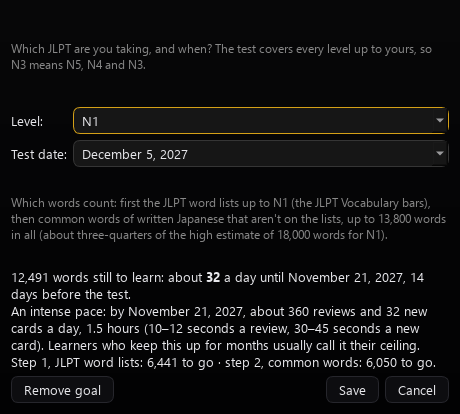
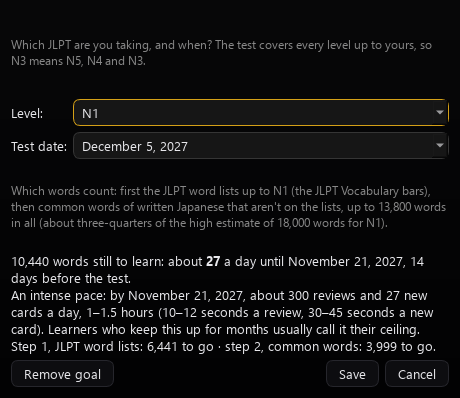
Goal: suspended list words never open step 2
Step 2 is sized against the full bundled lists, not the lists minus
suspensions: 4 suspended N2 words had opened 'Step 2: 4 / 4' on an N2
goal. Suspended list words now only shrink the total, as for N5-N3.
qt_goal.py checks the 4-suspended case. History log: seventh session.

diff --git a/tools/dev/qt_goal.py b/tools/dev/qt_goal.py
@@ -70,6 +70,12 @@ def results(n5, n4, n3, kanji=None, grammar=None):
         r["grammar"] = {"levels": levels, "known": set(levels["N5"][:grammar[0]] + levels["N4"][:grammar[1]])}
     return r
 
+# step 2 is sized against the full bundled lists (goal._full_list_size);
+# these fake lists are smaller, so size it from them until the real-lists checks
+FAKE_SIZES = {"N5": 700, "N4": 650, "N3": 1600, "N2": 1800, "N1": 3000}
+_real_full_size = goal._full_list_size
+goal._full_list_size = lambda level: sum(FAKE_SIZES[l] for l in goal.levels_upto(level))
+
 check("no goal", goal.status(results(600, 400, 300)), None)
 goal.save("N3", datetime.date(2026, 12, 6))
 check("saved", (goal.get()["level"], goal.get()["set"]), ("N3", datetime.date(2026, 10, 20)))
@@ -187,6 +193,7 @@ check("N3 words = lists", goal.status(results(600, 400, 300), "D")["kinds"]["voc
 # Real word lists in the real results' shape (owner's crash 2026-10-20:
 # missing words are (word, reading) pairs, known ones (word, reading, nid))
 from jlpt_progress import jlpt_data
+goal._full_list_size = _real_full_size
 real = jlpt_data.build_lists({})
 RR = {l: {"known_words": [(d, r, 1) for d, r in real[l][:100]], "missing_words": [(d, r) for d, r in real[l][100:]]}
       for l in jlpt_data.LEVELS}
@@ -201,6 +208,12 @@ for lvl in ("N2", "N1"):
         # 2026-10-29): no step 2, so no steps; the total is the lists
         check("real lists N2: no steps", st.get("steps"), None)
         check("real lists N2: words = lists", st["kinds"]["vocab"]["total"], n_lists)
+        # suspended list words shrink the total but never open step 2 (owner's "Step 2: 4 / 4")
+        RS = {l: dict(RR[l]) for l in jlpt_data.LEVELS}; RS["frequency"] = RR["frequency"]
+        RS["N2"]["missing_words"] = RR["N2"]["missing_words"][4:]
+        st4 = goal.status(RS, "D", record=False)
+        check("real lists N2, 4 suspended: still no steps", st4.get("steps"), None)
+        check("real lists N2, 4 suspended: total = lists - 4", st4["kinds"]["vocab"]["total"], n_lists - 4)
         continue
     check(f"real lists {lvl}: step 1 total", st["steps"]["lists"], (100 * len(goal.levels_upto(lvl)), n_lists))
     print("    step 2 needed:", st["steps"]["common"][1])

diff --git a/goal.py b/goal.py
@@ -148,6 +148,16 @@ FREQ_GOALS = {"N2": 6_000, "N1": 13_800}   # word goals counted on the frequency
 
 
 _LIST_RANKS: dict = {}       # (level, list sizes, list version) → ranks of the list words
+_FULL_SIZE: dict = {}        # level → JLPT list words up to it, suspended ones included
+
+
+def _full_list_size(level: str) -> int:
+    """Every word on the bundled lists up to `level` (each word once)."""
+    if level not in _FULL_SIZE:
+        from . import jlpt_data
+        lists = jlpt_data.build_lists()
+        _FULL_SIZE[level] = sum(len(lists.get(l, ())) for l in levels_upto(level))
+    return _FULL_SIZE[level]
 
 
 def _list_ranks(results: dict, level: str) -> set:
@@ -309,7 +319,10 @@ def counts(results: dict, level: str) -> dict:
         found_r = freq.get("found_ranks") or set()
         sus = freq.get("suspended_ranks") or set()
         pool = [r for r in range(top) if (r + 1) not in listed and r not in sus]
-        need = min(len(pool), max(0, top - n))
+        # Sized against the full lists, not what's left after suspensions
+        # (owner 2026-10-29: 4 suspended N2 words opened "Step 2: 4 / 4").
+        # Suspended list words only shrink the total, as for N5–N3.
+        need = min(len(pool), max(0, top - _full_list_size(level)))
         known_x = [r for r in pool if r in cards or r in found_r]
         x = min(len(known_x), need)
         # Words from cards fill the needed count first, marks the rest: else
@@ -319,8 +332,7 @@ def counts(results: dict, level: str) -> dict:
         xf = x - min(sum(1 for r in known_x if r in cards), x)
         # No steps when the lists alone reach the size estimate (owner
         # 2026-10-29): after the Word Addition Project the lists up to N2
-        # hold 6,000 words (capped at the estimate), so N2 is just the lists. Only a
-        # lot of suspended list words brings step 2 back.
+        # hold 6,000 words (capped at the estimate), so N2 is just the lists.
         if need:
             out["steps"] = {"lists": (k, n), "common": (x, need)}
         out["vocab"] = (k + x, n + need, f + xf)

diff --git a/goal_view.py b/goal_view.py
@@ -258,7 +258,7 @@ def _add_waiting_line(outer, kinds: dict):
 
 
 def _step_lines(st: dict) -> list:
-    """N1 (and N2 only if suspended list words open a gap):
+    """N1 only (N2's lists fill its size estimate):
     "Step 1 · JLPT word lists up to N1: 3,100 / 9,796 …" and
     "Step 2 · then common words not on the lists: 0 / 4,004 …"."""
     steps = st.get("steps")

diff --git a/docs/HISTORY.md b/docs/HISTORY.md
@@ -982,3 +982,5 @@ Order: release-ready first (parser vocab accuracy → measured like grammar), th
 - Kanji heat legend only on the grids; sparks `rain.SPARK_SCALE = 0.75`; Off-list wording leads with relevance; README Text Check line (particles left out on purpose; recall ≈ 9 in 10, precision ≈ 99 %, misses need meaning).
 
 **2026-10-28, sixth session: Word Addition Project built.** Mini widget drops under the stats in a narrow window (owner checked). Owner cleared the fifth session's check list in Anki. **Fit check:** researched each JLPT level's purpose (jlpt.jp level summary, Can-do lists, FAQ: no lists since 2010) and the 2008 Japan Foundation report on the unpublished new vocabulary table (frequency + teacher judgement + old list; 10,000–18,000 words; affixes as entries; うどん / エアコン N5, ATM / アンケート N4, 駅ビル N3; specialist terms left out), plus how our lists treat similar words (affixes listed once, 8 〜的 words; computer words N4/N3; jobs N4/N3; food N5/N4; war / religion / history not avoided) → 67 changes to round 2 (`tools/missing_words/fit_check.py`), owner accepted all. **Round 3** (#3,901–6,000, 925 words) judged the same way in `round3.py` (add 704, skip 221 by reason), owner accepted. **お-form rule** (owner): list the お/ご form when it's the usual form, as Waller does (お茶 N5 + 茶 N3); ご協力 skipped. **Build:** `final_additions.py` → `word_additions.json` (1,119 words, JMdict ids from meanings.json) → `build_jlpt.py` OUR_ADDITIONS (flag `ours`; 1,126 with the 7 older ones). Lists 8,070 → 9,189 (N5 688, N4 722, N3 1,957, N2 2,232, N1 3,590). The grammar test caught two problems: short kana additions (たこ, いか, だし) lost the parser's rare-kana penalty (したこと → し + たこ + と; よいか → よ + いか; 暇だし), fixed in `sentence_parser` (`ours` words count as frequency-only for `_RARE_KANA`); どうにも hid the も that owner rulings count → skipped (pattern, どう + にも). After that: grammar 0 failures / 0 differences, vocab 0 differences, all maintenance tests pass. UI "about 8,000 words up to N1" → 9,200 (EN + JA); README list size + "Our additions" credit. Earlier the fifth session's entries (goal "?" window, weekly pace, gain hovers, Progress Review) were checked by the owner in Anki.
+
+**2026-10-29, seventh session: speech round, frequency rule, N2 = 6,000, goal texts.** Licence decisions: no NINJAL email (accepted risk), no Grok credit; BCCWJ (Maekawa et al. 2014, doi 10.1007/s10579-013-9261-0) + CEJC (Koiso et al. 2022 LREC; 小磯ほか 2023 国語研論集 24) citations in README + About ("Corpus references"); rank pictures "made for Kotodama". No word batches past #6,000. **Speech review page:** JMdict glosses for the 447 rows without a meaning (`speech_round.jmdict_glosses`); "Other…" option + note box (db `review/speech` `notes`). **Frequency rule** (owner): an addition must fit its level's bar size (800 / 1,500 / 3,900 / 6,000 / 13,400) by the better of written and speech rank, else it moves up until it fits (`speech_round.fit_level`); written-round words with no speech rank (CEJC splits 日本語 / お願い) keep their level; 76 written words moved (list in the session: りんご N5→N4, 右手 / 本日 / 彼氏 N4→N3, マウス / 市長 N3→N2 …). **Speech round built:** 611 words (`final_additions.py … --speech=owner_choices_speech.json --jitendex=<zip>`; ids via Jitendex `pick`, not a plain JMdict search: かえる = 蛙); owner's 14 notes decided in `speech_round.RESOLVED` (ordinary compounds like 飲み会 / 南口 / 大騒ぎ aren't "pattern words"; pairs share a level: 右足 + 左足 N2); direction sets 東西南北 + 口 / 部 / 側 all N2 (`final_additions.SETS`, rarer members as exceptions; 東口 / 東部 / 東側 / 南側 / 北側 added); 洋室 too rare (≈#25,600). Meanings for the 30 new words merged from the owner's Downloads Jitendex 2025-11-02 (older than the shipped 2026-10-03, so only new keys); `build_meanings.GLOSS_FIX` 和歌. **Research check:** 6,000 for N2 = the old JLPT 出題基準 Level 2 figure (L4 800 / L3 1,500 / L2 6,000 / L1 10,000; guidebook: N2 ≈ old Level 2); N3 3,900 is ours; N1 13,800 sits under the 2008 report's 10,000–18,000 table range. **N2 capped at 6,000** (owner): lists up to N2 were 6,103 → `final_additions.TO_N1` moves the 103 of our N2 additions least likely on the N2 test (hobbies / entertainment, specialised, trendy, very specific, sound words, literary; rarest first, #5,012–5,994) to N1; kept: notice / form words (先着順, 手数料), daily listening words (ゴミ袋, 帰り道), N2 vocab-section words (戸惑う, 違和感). Lists 9,805: N5 687, N4 706, N3 2,033, N2 2,578, N1 3,801 (the files sum to 6,004 up to N2: 4 kana homographs on two levels count once in the goal). **Goal:** N2 has no steps (step 2 was always 0 / 0); "Which words count" is one line for N5–N2, the two-step text only when N1 is picked (13,800 ≈ three-quarters of the 18,000 high estimate); Frequency info, Rank "?" window, 6,000 milestone, README reworded (EN + JA); weekly kinds → "Pace: … a day · … a week" / "Progress: … today · … this week" (ペース / 進み具合). Step 2 is sized against the full bundled lists (`goal._full_list_size`), not the lists minus suspensions: the owner's 4 suspended N2 words had opened "Step 2: 4 / 4"; suspended list words now only shrink the total. `qt_goal.py` crashed on the N2 change (its "FAILS: none" came from the crashed run) → now checks N2 = lists. All evals 0 differences; all tests pass. Commits 379d784, 01df77b, 45f9495, f3f338c.

diff --git a/APP_VISION.md b/APP_VISION.md
@@ -15,7 +15,7 @@
 - **Frequency rule (owner 2026-10-29):** every addition must sit inside its level's bar size (N5 800 / N4 1,500 / N3 3,900 / N2 6,000 / N1 13,400) by the better of written and speech rank, else it moves up a level at a time until it fits (`speech_round.fit_level`). Written-round words with no speech rank keep their level (CEJC short units split 日本語 / お願い apart). Moved: 75 written words (りんご N5→N4, 右手 / 左手 / 本日 / 彼氏 N4→N3, マウス / 市長 N3→N2 …), 125 speech words.
 - **Meanings:** new words' meanings merged into `meanings.json` from the owner's Downloads Jitendex (2025-11-02; older than the 2026-10-03 one used for the rest, so existing entries were left as they were; a full refresh needs a fresh download, §6). `build_meanings.GLOSS_FIX`: 和歌 = "waka; classical Japanese poem (esp. a tanka of 31 morae)".
 - UI "about 9,200 words up to N1" → 9,800 (EN + JA); README list size and "Our additions" (1,742, written + spoken, the frequency rule). Expect: JLPT bars and goal totals change, History marks a list change.
-- **N2 goal has no steps** (owner 2026-10-29): the lists up to N2 reached the 6,000 estimate (6,103, then capped at exactly 6,000: `final_additions.TO_N1` moves the 103 of our N2 additions least likely on the N2 test to N1), so step 2 was always 0 / 0. `goal.status` gives `steps` only when step 2 needs words (N1; N2 only if suspended list words open a gap). Texts updated (EN + JA): goal "Which words count" (now short: `WORDS_EXPLAINED` for N5–N2, `WORDS_EXPLAINED_N1` with the two steps only when N1 is picked), Frequency info ("an N1 JLPT goal fills its second step"), Rank "?" window (lists now reach N2's size, fall short at N1), README; `qt_goal.py` checks N2 = lists.
+- **N2 goal has no steps** (owner 2026-10-29): the lists up to N2 reached the 6,000 estimate (6,103, then capped at exactly 6,000: `final_additions.TO_N1` moves the 103 of our N2 additions least likely on the N2 test to N1), so step 2 was always 0 / 0. `goal.status` gives `steps` only when step 2 needs words (N1 only; step 2 is sized against the full lists, so suspended list words never open one at N2). Texts updated (EN + JA): goal "Which words count" (now short: `WORDS_EXPLAINED` for N5–N2, `WORDS_EXPLAINED_N1` with the two steps only when N1 is picked), Frequency info ("an N1 JLPT goal fills its second step"), Rank "?" window (lists now reach N2's size, fall short at N1), README; `qt_goal.py` checks N2 = lists.
 - **Goal pace lines** (owner 2026-10-29): when kanji or grammar are weekly, "Per day" / "Today" become "Pace: 13 words a day · 4 kanji a week …" / "Progress: 0 / 13 words today · 9 / 4 kanji this week …" (JA ペース / 進み具合); all daily keeps "Per day" / "Today".
 - Speech review page: JMdict meanings for the 447 rows that had none; "Other…" option with a note box (db doc `review/speech`: `choices` + `notes`).
 
